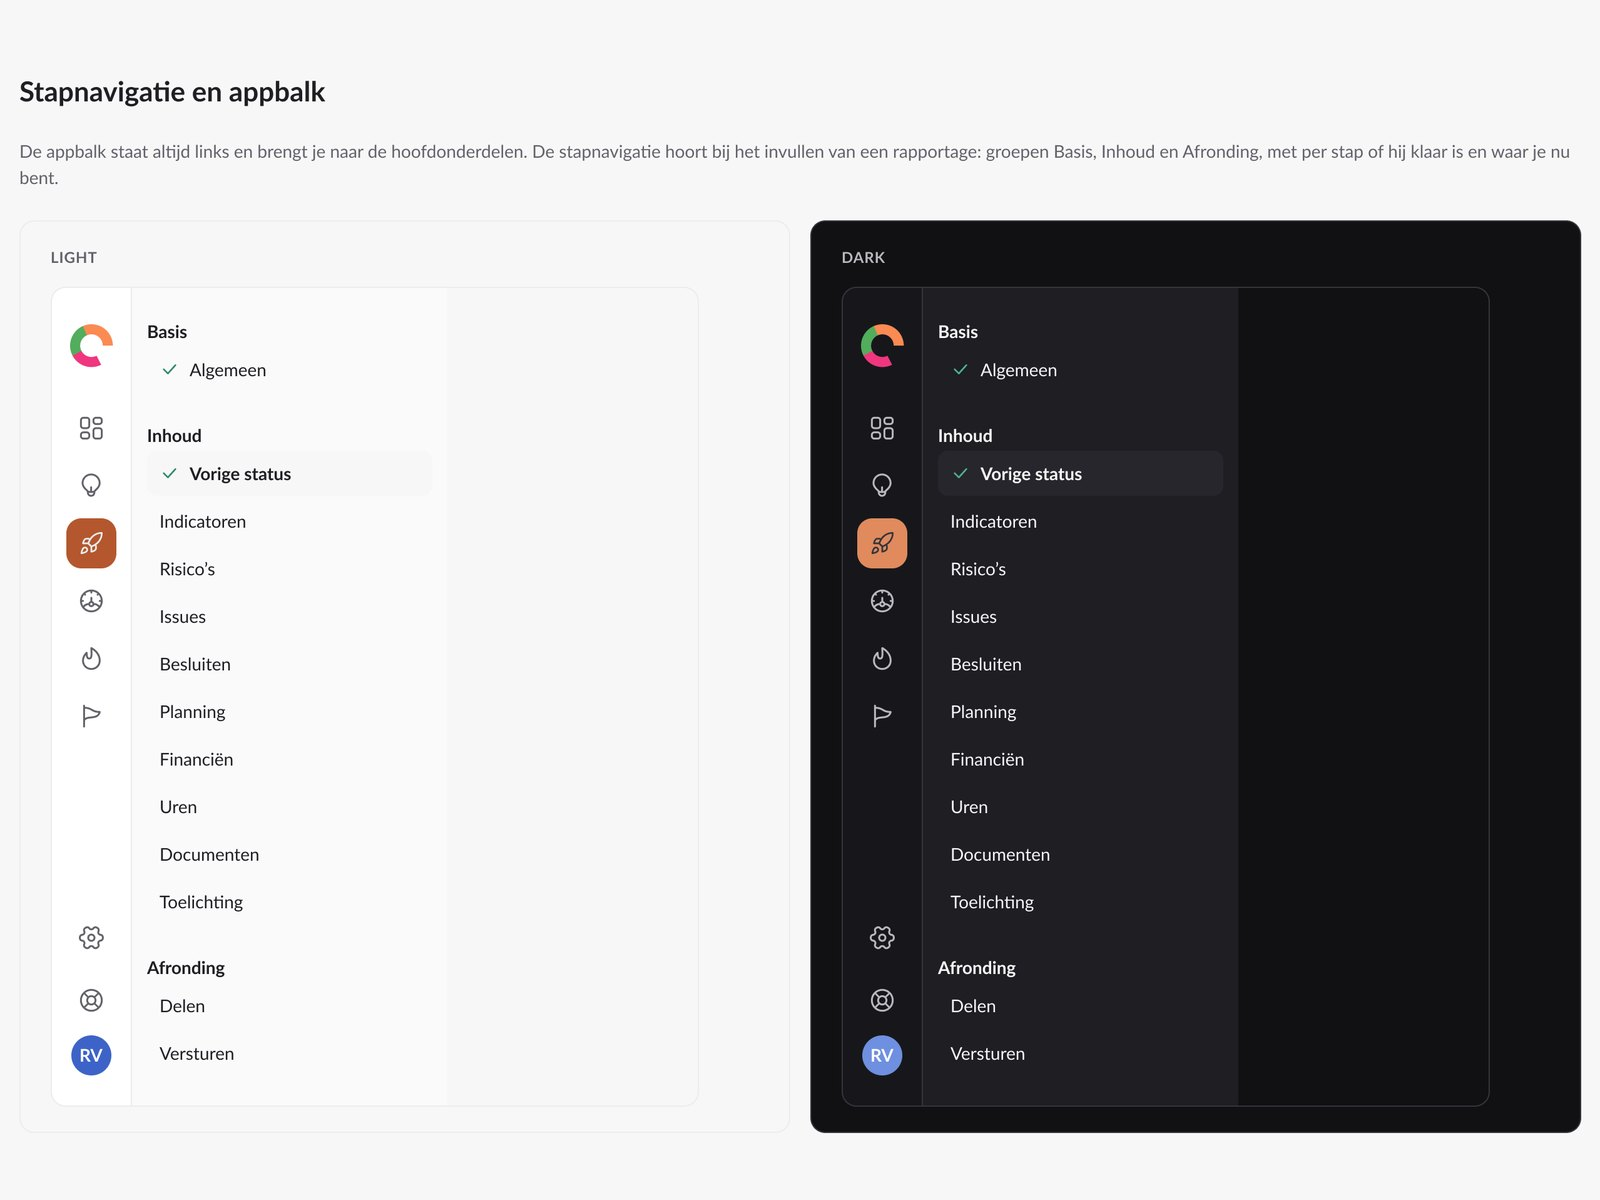
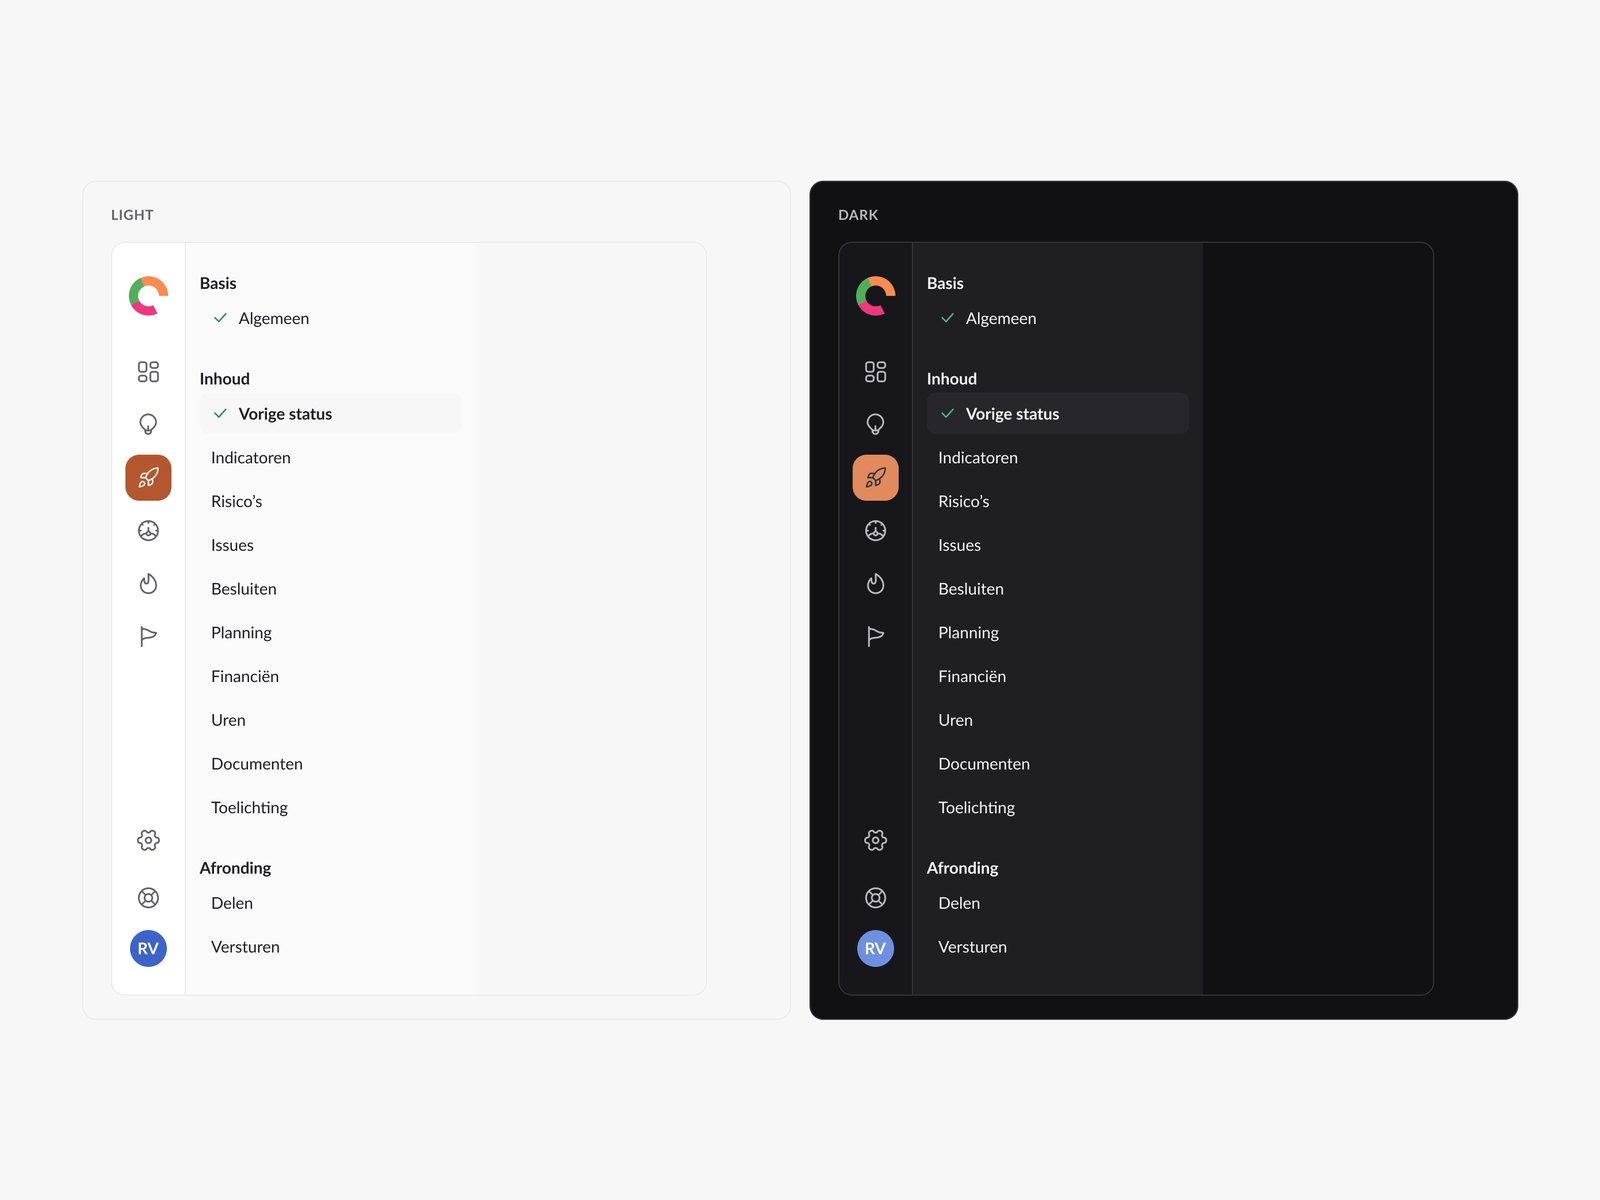
Concept: Projectreports beelden zonder Figma titels, met ruimte rondom
Claude-Session: https://claude.ai/code/session_017nDyUfiKUM6BVLTJqUZ4gV

diff --git a/werk/index.html b/werk/index.html
@@ -100,13 +100,13 @@
 
   <article id="case-projectreports" class="cs flip rv">
     <div class="cs-media">
-      <figure class="cs-main"><img src="/assets/img/cases/projectreports-1.jpg" alt="Modal en zijpaneel van Projectreports in licht en donker, met één vaste opbouw"></figure>
+      <figure class="cs-main"><img src="/assets/img/cases/projectreports-1.jpg?v=2" alt="Modal en zijpaneel van Projectreports in licht en donker, met één vaste opbouw"></figure>
       <div class="cs-thumbs">
-        <button class="on"><img src="/assets/img/cases/projectreports-1.jpg" alt=""></button>
-        <button><img src="/assets/img/cases/projectreports-2.jpg" alt=""></button>
-        <button><img src="/assets/img/cases/projectreports-3.jpg" alt=""></button>
-        <button><img src="/assets/img/cases/projectreports-4.jpg" alt=""></button>
-        <button><img src="/assets/img/cases/projectreports-5.jpg" alt=""></button>
+        <button class="on"><img src="/assets/img/cases/projectreports-1.jpg?v=2" alt=""></button>
+        <button><img src="/assets/img/cases/projectreports-2.jpg?v=2" alt=""></button>
+        <button><img src="/assets/img/cases/projectreports-3.jpg?v=2" alt=""></button>
+        <button><img src="/assets/img/cases/projectreports-4.jpg?v=2" alt=""></button>
+        <button><img src="/assets/img/cases/projectreports-5.jpg?v=2" alt=""></button>
       </div>
     </div>
     <div class="cs-text">
